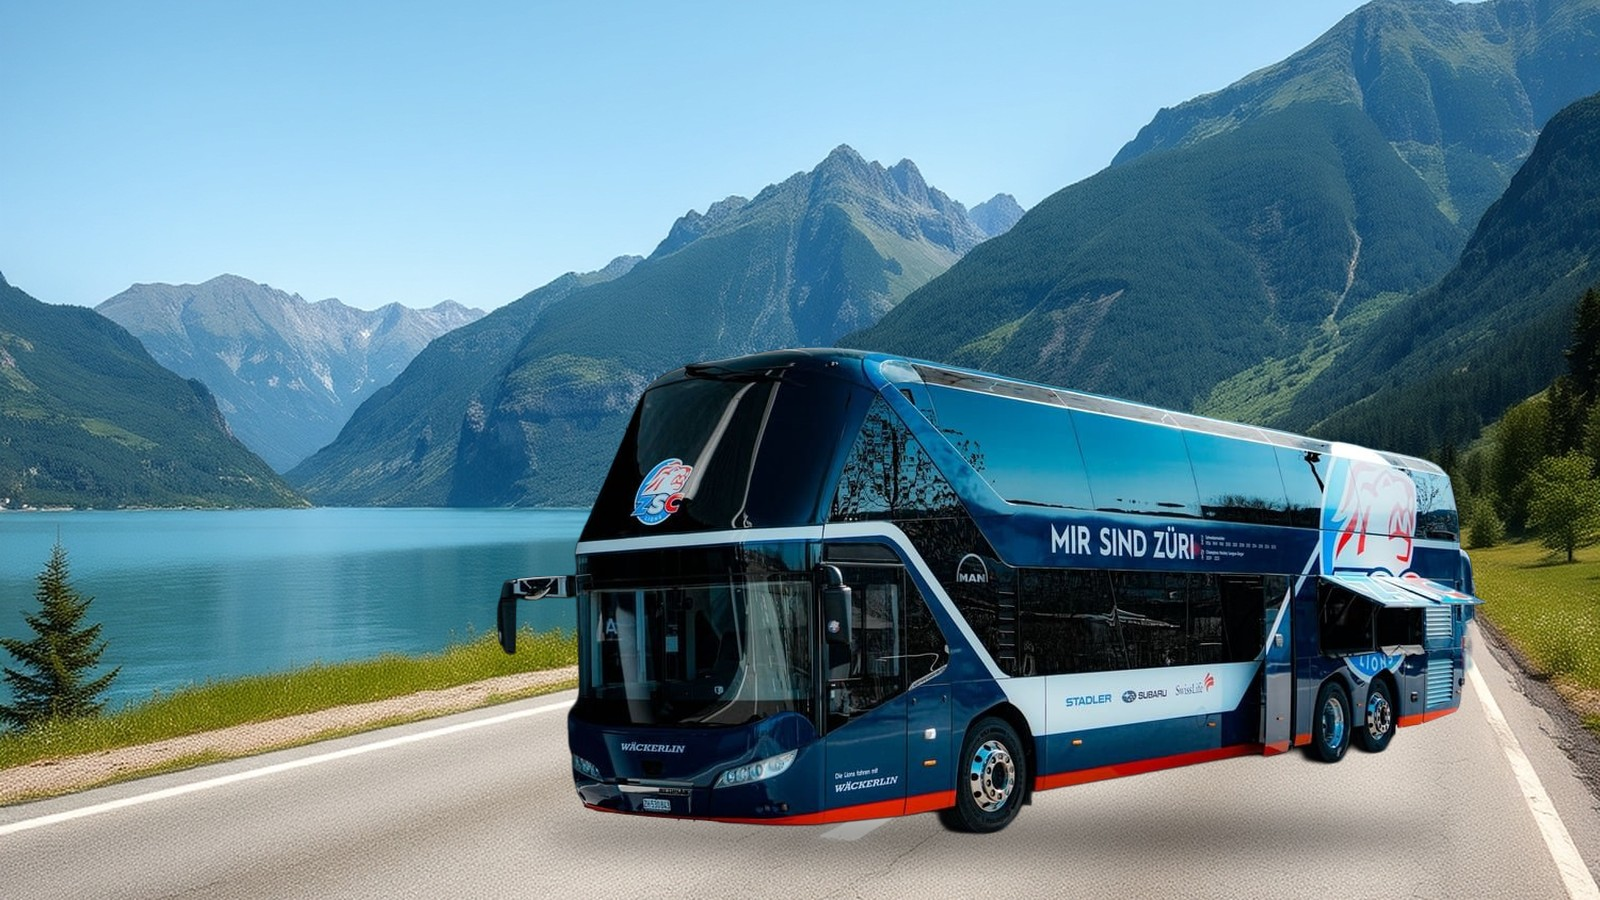
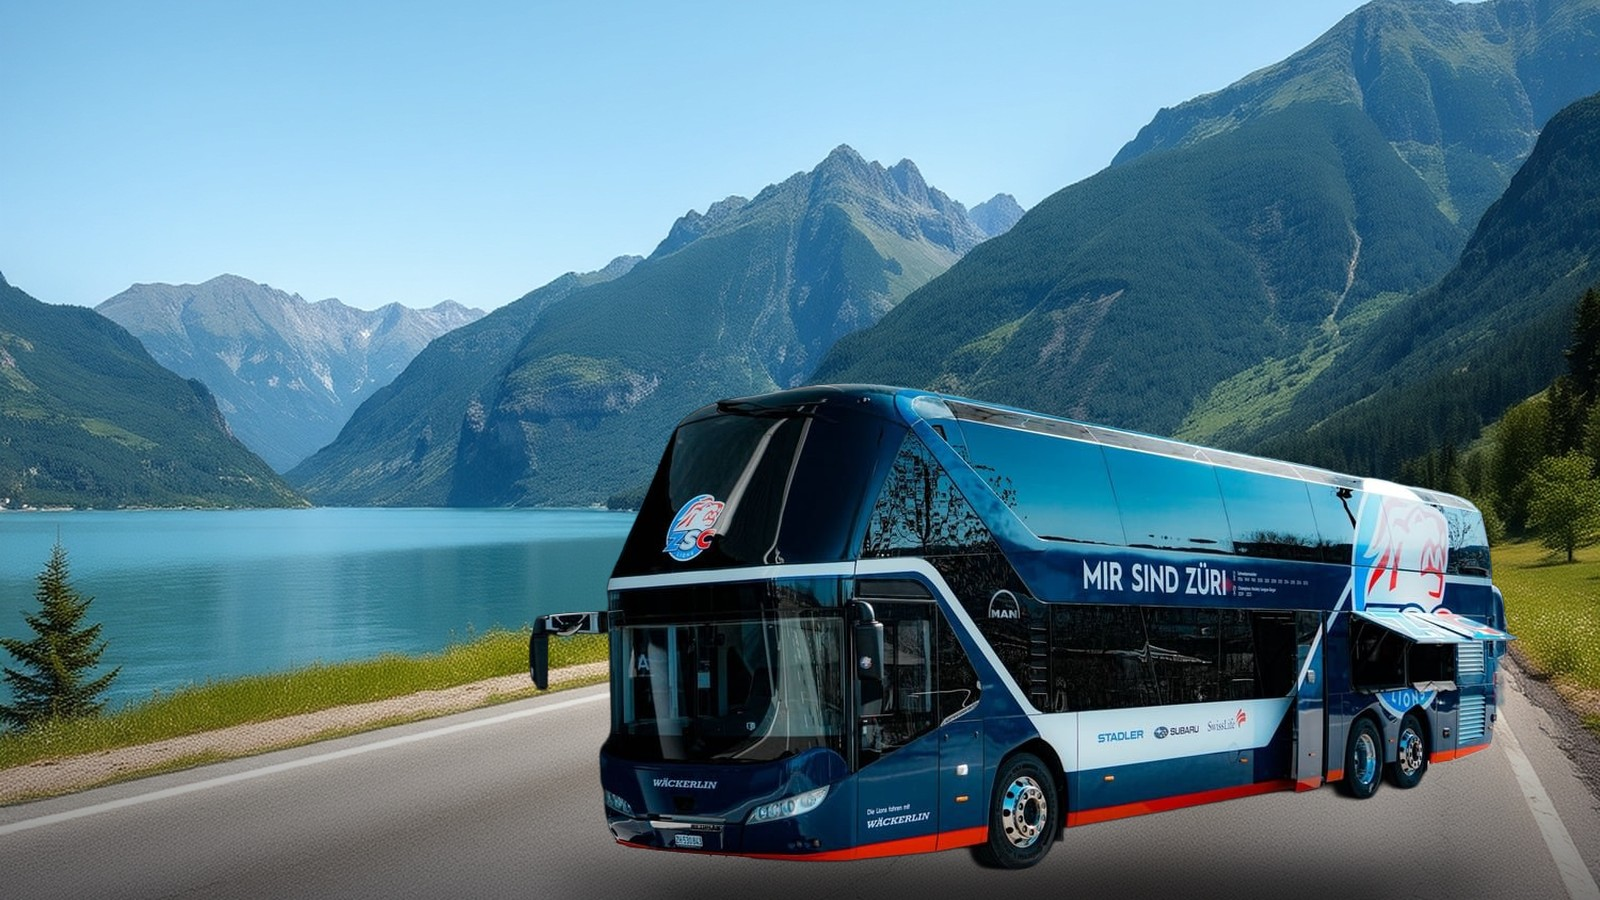
Hero buses grounded on road; blue-accented business cards; safety block with darkened bg + balanced columns; vintage photo aligned, no frame

diff --git a/index.html b/index.html
@@ -95,9 +95,9 @@
       <a id="angebote" href="#kontakt" class="mt-9 inline-flex items-center gap-3 text-steel font-semibold ul-steel">Unsere aktuellen Angebote finden Sie hier <span>→</span></a>
     </div>
     <div class="lg:col-span-5 grid gap-4 reveal">
-      <div class="border border-line p-6"><p class="font-display text-ink text-lg" style="font-weight:600">Ihr Logistikpartner im Personentransportbereich</p><p class="text-slate mt-1">für Anlässe von 10 – 500 Gästen</p></div>
-      <div class="border border-line p-6"><p class="font-display text-ink text-lg" style="font-weight:600">Vereinsausflüge / Familienanlässe / Schulreisen</p><p class="text-slate mt-1">10 – 25 Personen im TopClass Kleinbus</p></div>
-      <div class="border border-line p-6"><p class="font-display text-ink text-lg" style="font-weight:600">Ihr Partner im Profisportbereich</p><p class="text-slate mt-1">TopClass Reisebusse mit 25 bis 78 Sitzplätzen</p></div>
+      <div class="border border-steel/40 border-l-4 border-l-steel bg-steel/5 p-6"><p class="font-display text-ink text-lg" style="font-weight:600">Ihr Logistikpartner im Personentransportbereich</p><p class="text-slate mt-1">für Anlässe von 10 – 500 Gästen</p></div>
+      <div class="border border-steel/40 border-l-4 border-l-steel bg-steel/5 p-6"><p class="font-display text-ink text-lg" style="font-weight:600">Vereinsausflüge / Familienanlässe / Schulreisen</p><p class="text-slate mt-1">10 – 25 Personen im TopClass Kleinbus</p></div>
+      <div class="border border-steel/40 border-l-4 border-l-steel bg-steel/5 p-6"><p class="font-display text-ink text-lg" style="font-weight:600">Ihr Partner im Profisportbereich</p><p class="text-slate mt-1">TopClass Reisebusse mit 25 bis 78 Sitzplätzen</p></div>
     </div>
   </div>
 </section>
@@ -152,33 +152,37 @@
 </section>
 
 <!-- SICHERHEIT -->
-<section class="py-24 lg:py-28 bg-graphite text-white">
-  <div class="max-w-7xl mx-auto px-6 lg:px-10">
+<section class="relative py-24 lg:py-28 text-white overflow-hidden">
+  <div class="absolute inset-0">
+    <img src="images/safety-bg.jpg" alt="" class="w-full h-full object-cover">
+    <div class="absolute inset-0" style="background:linear-gradient(180deg, rgba(20,23,28,.92), rgba(12,14,18,.94))"></div>
+  </div>
+  <div class="relative max-w-7xl mx-auto px-6 lg:px-10">
     <div class="max-w-2xl mb-12 reveal">
       <p class="eyebrow mb-4" style="color:#9CC6E6">Sicherheit</p>
       <h2 class="font-display text-3xl md:text-4xl leading-tight" style="font-weight:600">Zur Sicherheit unserer Fahrgäste tragen folgende Assistenten bei:</h2>
     </div>
-    <ul class="grid sm:grid-cols-2 lg:grid-cols-3 gap-x-10 gap-y-3.5 reveal">
-      <li class="flex items-start gap-3 text-white/85"><span style="color:#9CC6E6" class="mt-1.5">▪</span>Abstandsregler</li>
-      <li class="flex items-start gap-3 text-white/85"><span style="color:#9CC6E6" class="mt-1.5">▪</span>Spurhalteassisten</li>
-      <li class="flex items-start gap-3 text-white/85"><span style="color:#9CC6E6" class="mt-1.5">▪</span>Bremsassistet</li>
-      <li class="flex items-start gap-3 text-white/85"><span style="color:#9CC6E6" class="mt-1.5">▪</span>Rückfahrkamera</li>
-      <li class="flex items-start gap-3 text-white/85"><span style="color:#9CC6E6" class="mt-1.5">▪</span>Elektrische Feststellbremse</li>
-      <li class="flex items-start gap-3 text-white/85"><span style="color:#9CC6E6" class="mt-1.5">▪</span>Abstandsgeregelter Tempomat</li>
-      <li class="flex items-start gap-3 text-white/85"><span style="color:#9CC6E6" class="mt-1.5">▪</span>Elektronisch gesteuertes Fahrwerk</li>
-      <li class="flex items-start gap-3 text-white/85"><span style="color:#9CC6E6" class="mt-1.5">▪</span>Elektronisches Bremssystem</li>
-      <li class="flex items-start gap-3 text-white/85"><span style="color:#9CC6E6" class="mt-1.5">▪</span>Notbremsassistent</li>
-      <li class="flex items-start gap-3 text-white/85"><span style="color:#9CC6E6" class="mt-1.5">▪</span>Elektronisches Stabilitätsprogramm</li>
-      <li class="flex items-start gap-3 text-white/85"><span style="color:#9CC6E6" class="mt-1.5">▪</span>Dauerbremsenmanagement mit Bremsomat und Tempomat</li>
-      <li class="flex items-start gap-3 text-white/85"><span style="color:#9CC6E6" class="mt-1.5">▪</span>Umkippschutz</li>
-      <li class="flex items-start gap-3 text-white/85"><span style="color:#9CC6E6" class="mt-1.5">▪</span>Aufmerksamkeitsassistent</li>
+    <ul class="columns-1 sm:columns-2 lg:columns-3 gap-x-10 reveal">
+      <li class="flex items-start gap-3 text-white/85 break-inside-avoid mb-3.5"><span style="color:#9CC6E6" class="mt-1.5">▪</span>Abstandsregler</li>
+      <li class="flex items-start gap-3 text-white/85 break-inside-avoid mb-3.5"><span style="color:#9CC6E6" class="mt-1.5">▪</span>Spurhalteassisten</li>
+      <li class="flex items-start gap-3 text-white/85 break-inside-avoid mb-3.5"><span style="color:#9CC6E6" class="mt-1.5">▪</span>Bremsassistet</li>
+      <li class="flex items-start gap-3 text-white/85 break-inside-avoid mb-3.5"><span style="color:#9CC6E6" class="mt-1.5">▪</span>Rückfahrkamera</li>
+      <li class="flex items-start gap-3 text-white/85 break-inside-avoid mb-3.5"><span style="color:#9CC6E6" class="mt-1.5">▪</span>Elektrische Feststellbremse</li>
+      <li class="flex items-start gap-3 text-white/85 break-inside-avoid mb-3.5"><span style="color:#9CC6E6" class="mt-1.5">▪</span>Abstandsgeregelter Tempomat</li>
+      <li class="flex items-start gap-3 text-white/85 break-inside-avoid mb-3.5"><span style="color:#9CC6E6" class="mt-1.5">▪</span>Elektronisch gesteuertes Fahrwerk</li>
+      <li class="flex items-start gap-3 text-white/85 break-inside-avoid mb-3.5"><span style="color:#9CC6E6" class="mt-1.5">▪</span>Elektronisches Bremssystem</li>
+      <li class="flex items-start gap-3 text-white/85 break-inside-avoid mb-3.5"><span style="color:#9CC6E6" class="mt-1.5">▪</span>Notbremsassistent</li>
+      <li class="flex items-start gap-3 text-white/85 break-inside-avoid mb-3.5"><span style="color:#9CC6E6" class="mt-1.5">▪</span>Elektronisches Stabilitätsprogramm</li>
+      <li class="flex items-start gap-3 text-white/85 break-inside-avoid mb-3.5"><span style="color:#9CC6E6" class="mt-1.5">▪</span>Dauerbremsenmanagement mit Bremsomat und Tempomat</li>
+      <li class="flex items-start gap-3 text-white/85 break-inside-avoid mb-3.5"><span style="color:#9CC6E6" class="mt-1.5">▪</span>Umkippschutz</li>
+      <li class="flex items-start gap-3 text-white/85 break-inside-avoid mb-3.5"><span style="color:#9CC6E6" class="mt-1.5">▪</span>Aufmerksamkeitsassistent</li>
     </ul>
   </div>
 </section>
 
 <!-- GESCHICHTE -->
 <section id="geschichte" class="py-24 lg:py-32 bg-white">
-  <div class="max-w-7xl mx-auto px-6 lg:px-10 grid lg:grid-cols-2 gap-16 items-center">
+  <div class="max-w-7xl mx-auto px-6 lg:px-10 grid lg:grid-cols-2 gap-16 items-start">
     <div class="reveal order-2 lg:order-1">
       <p class="eyebrow text-steel mb-6">Wie alles begann........im 1932</p>
       <div class="space-y-5 text-slate text-lg leading-relaxed font-light">
@@ -188,8 +192,8 @@
       </div>
     </div>
     <div class="reveal order-1 lg:order-2">
-      <div class="img-zoom overflow-hidden border border-line">
-        <img src="images/history-1932.jpg" alt="Wäckerlin Car auf einem Alpenpass – Fahrzeuge von damals, seit 1932" class="w-full h-auto object-cover">
+      <div class="img-zoom overflow-hidden">
+        <img src="images/history-1932.jpg" alt="Wäckerlin Car auf einem Alpenpass – Fahrzeuge von damals, seit 1932" class="block w-full h-auto">
       </div>
       <p class="eyebrow text-slate mt-4" style="font-size:.62rem">Fahrzeuge / Requisiten von damals</p>
     </div>